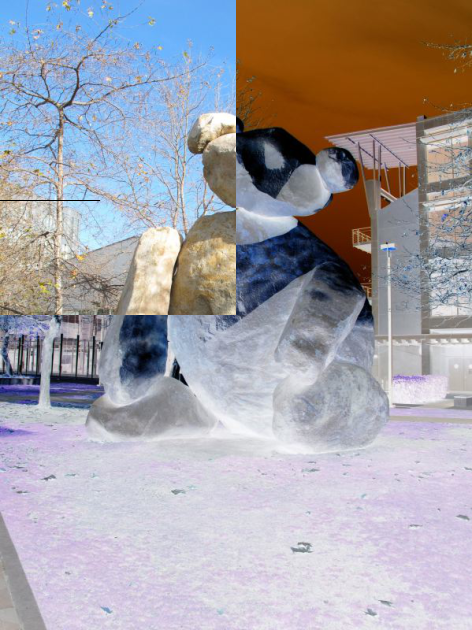
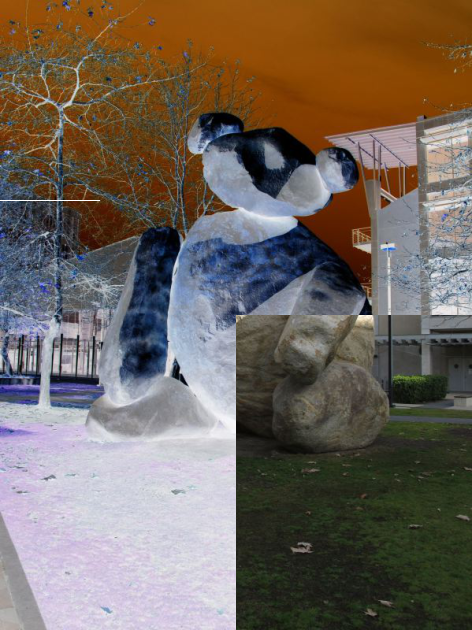
finished individual

diff --git a/lab05Warmup_Francisco.py b/lab05Warmup_Francisco.py
@@ -39,8 +39,8 @@ def invert_block( im ):
     # Find the dimensions of the image
     (width, height) = im.size
     # Loop over the entire image
-    for x in range( width // 2):
-        for y in range( height // 2 ):
+    for x in range(width // 2,  width):
+        for y in range( height // 2 , height):
             (red, green, blue, opaqueness) = im.getpixel((x, y))
             # Complete this function by adding your lines of code here.
             # You need to calculate the new pixel values and then to change them
